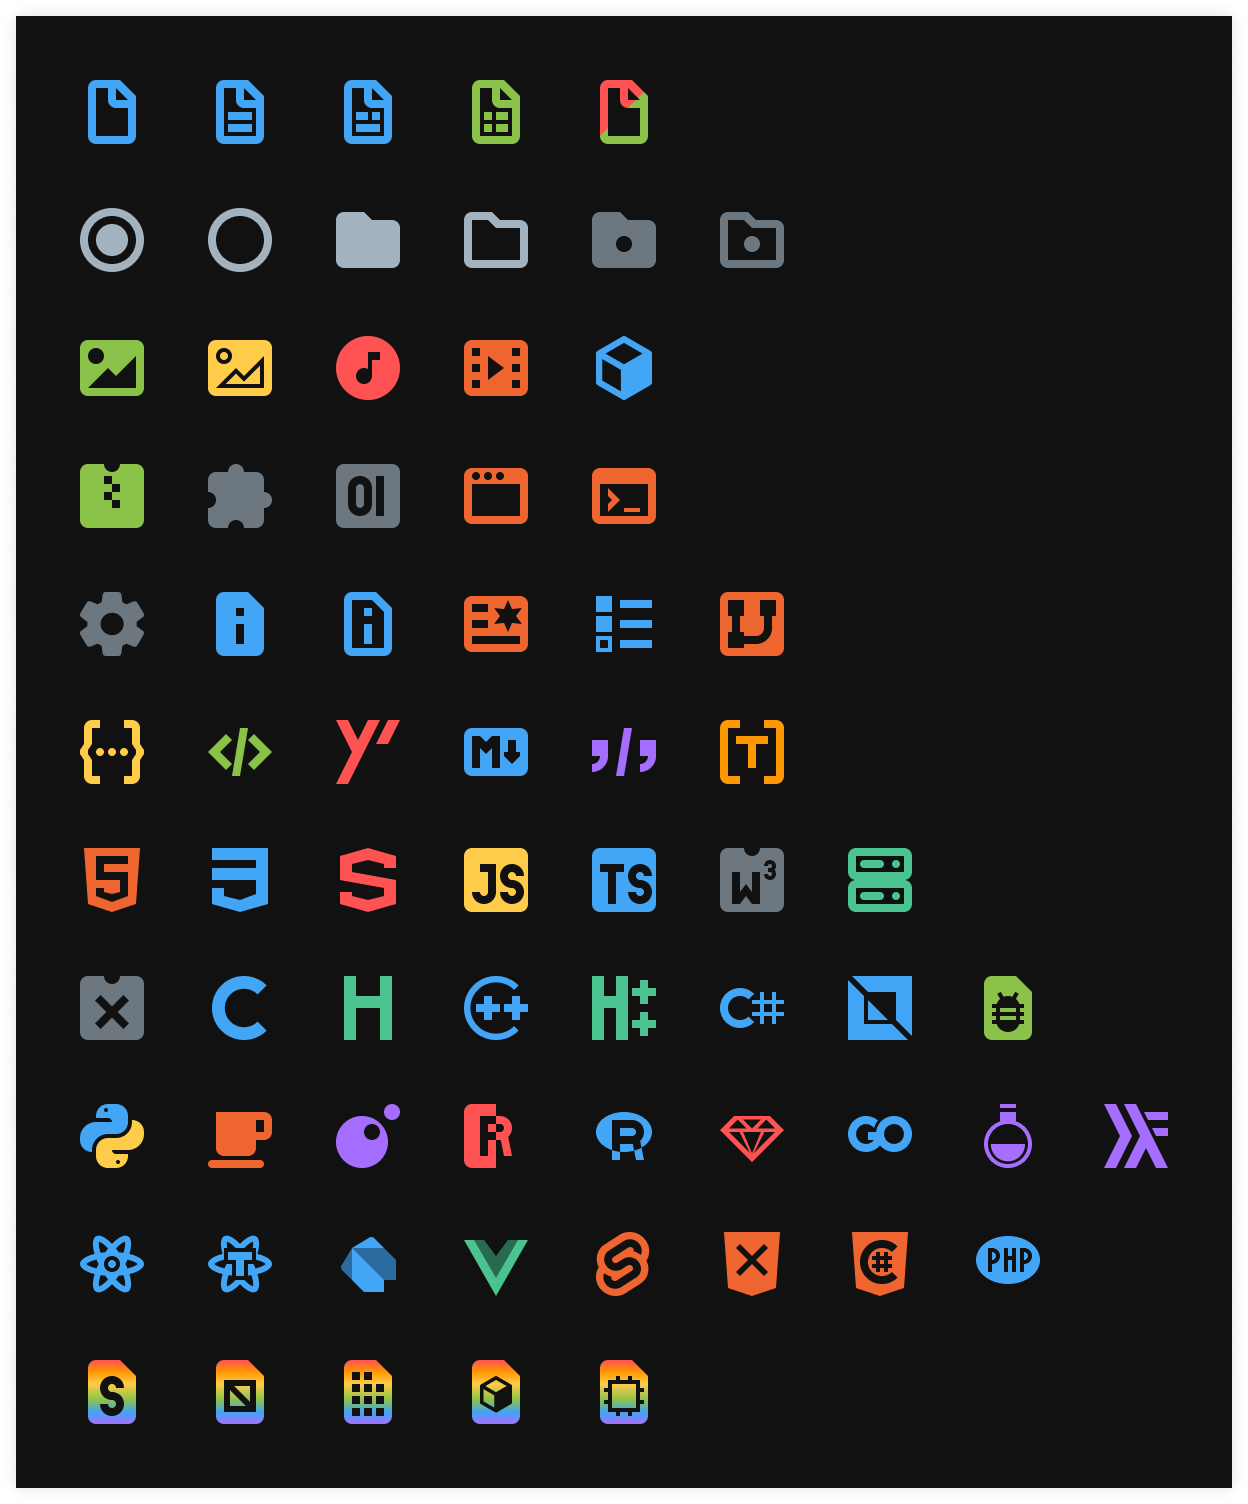
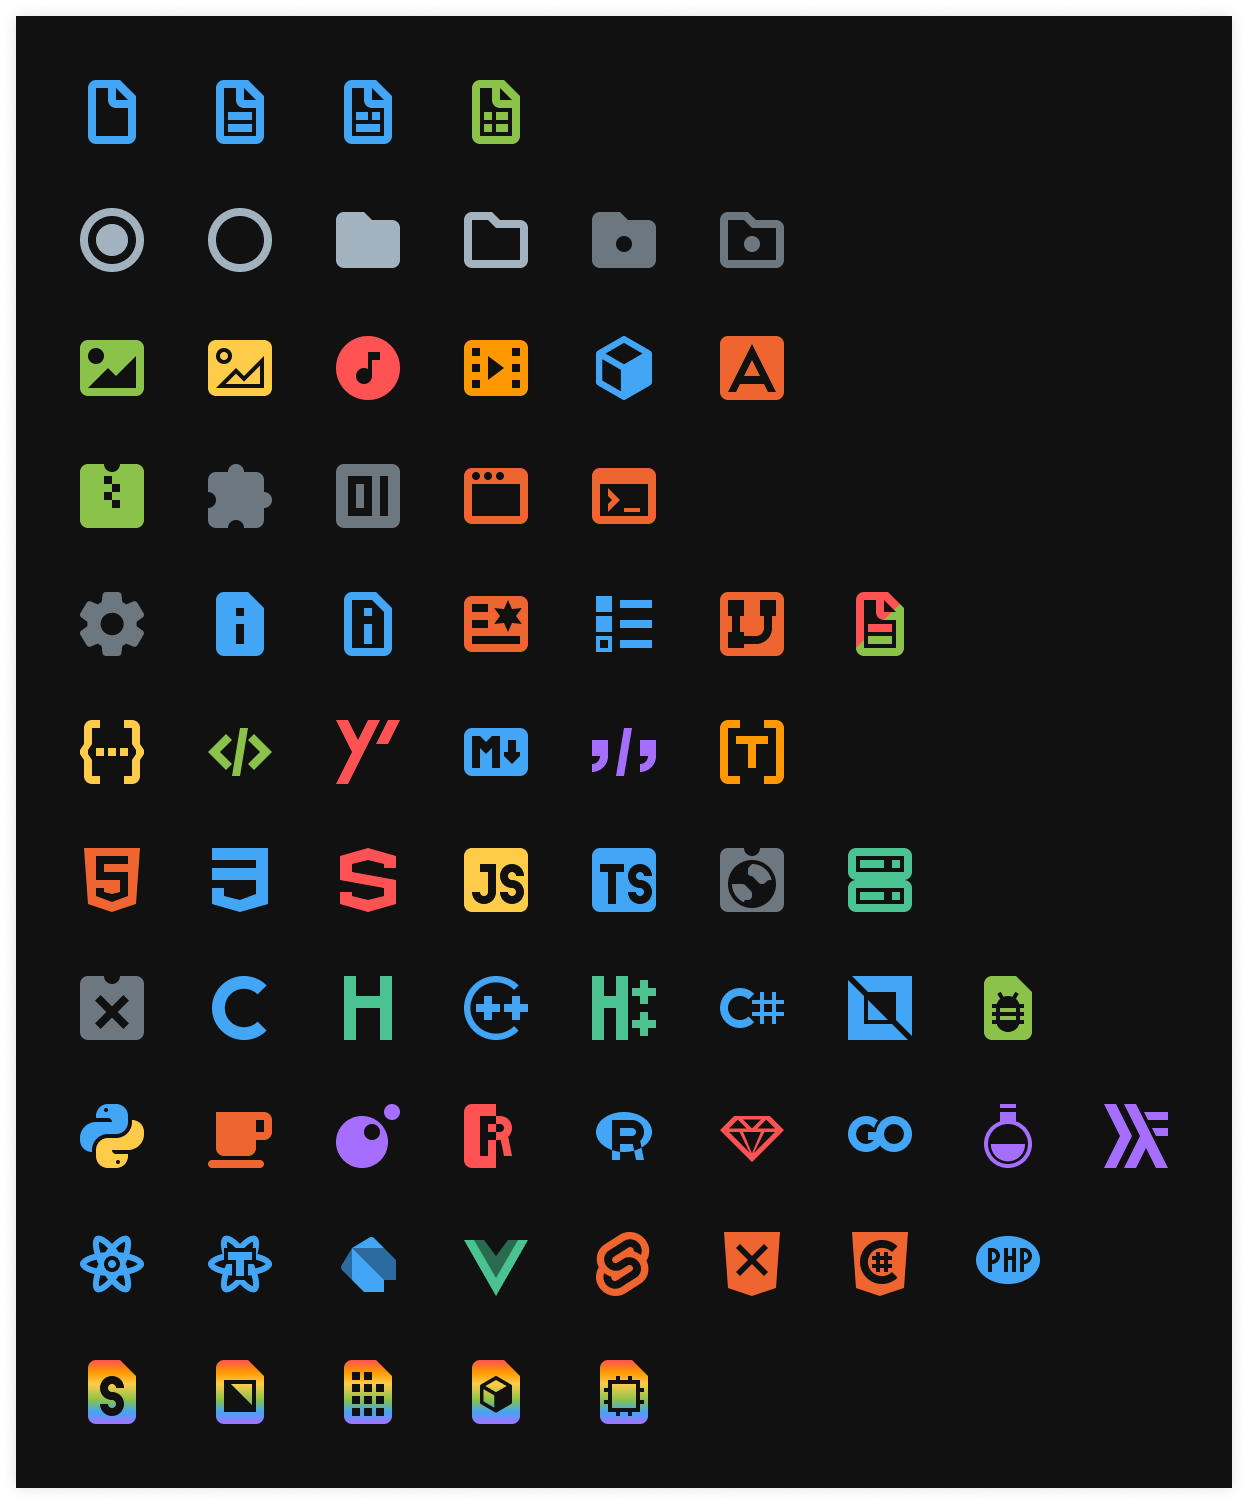
`1.1.2`

diff --git a/CHANGELOG.md b/CHANGELOG.md
@@ -1,5 +1,16 @@
 # Change Log
 
+## [1.1.2]
+
+- More blocky binary file icon
+- `.dat` files now use the binary icon
+- Added lines the the diff icon
+- Added a font icon
+- Update the vertex shader icon to have a consistent line thickness and be more interesting
+- Made the web assembly icon look less like web3 (Now it looks like the default favicon in chrome)
+- Tweaked the json icon to have square dots instead of dot dots
+- Tweaked sql icon in the kid of way as the json icon
+
 ## [1.1.1]
 
 - Fixed a few loose ends
